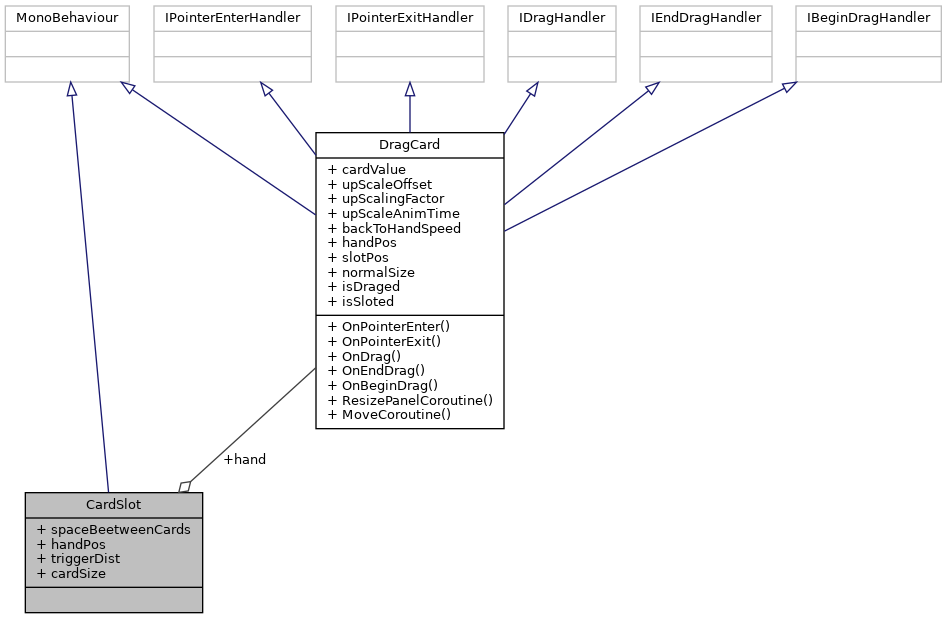
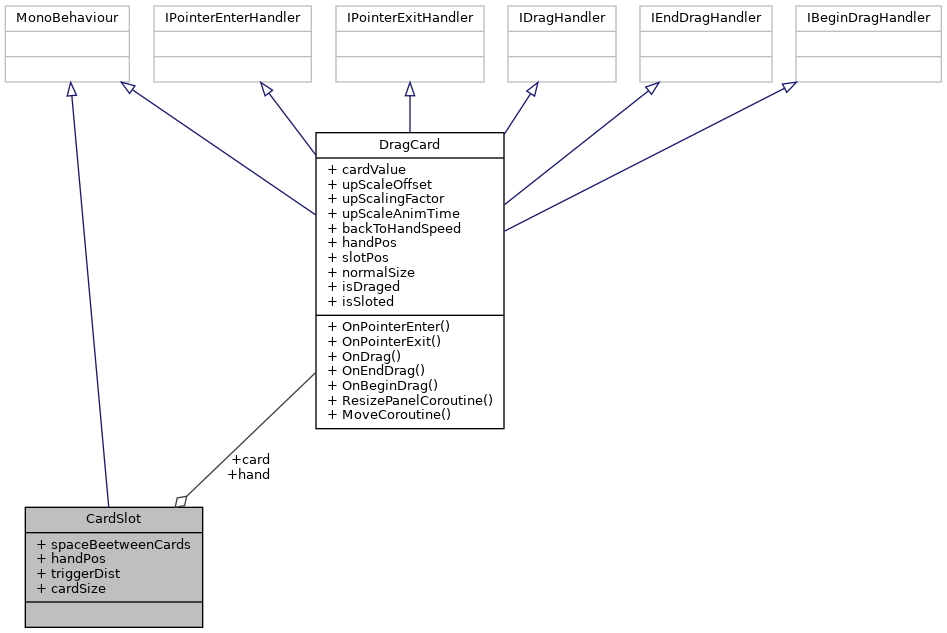
deploy: 629282280b667686e0bd03c245d22256bac1b76a

diff --git a/html/hierarchy.html b/html/hierarchy.html
@@ -79,15 +79,18 @@ This inheritance list is sorted roughly, but not completely, alphabetically:</di
 <tr id="row_4_0_" class="even"><td class="entry"><span style="width:32px;display:inline-block;">&#160;</span><span class="icona"><span class="icon">C</span></span><a class="el" href="classDragCard.html" target="_self">DragCard</a></td><td class="desc"></td></tr>
 <tr id="row_5_"><td class="entry"><span style="width:0px;display:inline-block;">&#160;</span><span id="arr_5_" class="arrow" onclick="toggleFolder('5_')">&#9660;</span><span class="icona"><span class="icon">C</span></span><b>IEndDragHandler</b></td><td class="desc"></td></tr>
 <tr id="row_5_0_" class="even"><td class="entry"><span style="width:32px;display:inline-block;">&#160;</span><span class="icona"><span class="icon">C</span></span><a class="el" href="classDragCard.html" target="_self">DragCard</a></td><td class="desc"></td></tr>
-<tr id="row_6_"><td class="entry"><span style="width:0px;display:inline-block;">&#160;</span><span id="arr_6_" class="arrow" onclick="toggleFolder('6_')">&#9660;</span><span class="icona"><span class="icon">C</span></span><b>IPointerEnterHandler</b></td><td class="desc"></td></tr>
-<tr id="row_6_0_" class="even"><td class="entry"><span style="width:32px;display:inline-block;">&#160;</span><span class="icona"><span class="icon">C</span></span><a class="el" href="classDragCard.html" target="_self">DragCard</a></td><td class="desc"></td></tr>
-<tr id="row_7_"><td class="entry"><span style="width:0px;display:inline-block;">&#160;</span><span id="arr_7_" class="arrow" onclick="toggleFolder('7_')">&#9660;</span><span class="icona"><span class="icon">C</span></span><b>IPointerExitHandler</b></td><td class="desc"></td></tr>
+<tr id="row_6_"><td class="entry"><span style="width:0px;display:inline-block;">&#160;</span><span id="arr_6_" class="arrow" onclick="toggleFolder('6_')">&#9660;</span><span class="icona"><span class="icon">C</span></span><b>IPointerDownHandler</b></td><td class="desc"></td></tr>
+<tr id="row_6_0_" class="even"><td class="entry"><span style="width:32px;display:inline-block;">&#160;</span><span class="icona"><span class="icon">C</span></span><a class="el" href="classCanvasSampleOpenFileJson.html" target="_self">CanvasSampleOpenFileJson</a></td><td class="desc"></td></tr>
+<tr id="row_7_"><td class="entry"><span style="width:0px;display:inline-block;">&#160;</span><span id="arr_7_" class="arrow" onclick="toggleFolder('7_')">&#9660;</span><span class="icona"><span class="icon">C</span></span><b>IPointerEnterHandler</b></td><td class="desc"></td></tr>
 <tr id="row_7_0_" class="even"><td class="entry"><span style="width:32px;display:inline-block;">&#160;</span><span class="icona"><span class="icon">C</span></span><a class="el" href="classDragCard.html" target="_self">DragCard</a></td><td class="desc"></td></tr>
-<tr id="row_8_"><td class="entry"><span style="width:0px;display:inline-block;">&#160;</span><span id="arr_8_" class="arrow" onclick="toggleFolder('8_')">&#9660;</span><span class="icona"><span class="icon">C</span></span><b>MonoBehaviour</b></td><td class="desc"></td></tr>
-<tr id="row_8_0_" class="even"><td class="entry"><span style="width:32px;display:inline-block;">&#160;</span><span class="icona"><span class="icon">C</span></span><a class="el" href="classCardSlot.html" target="_self">CardSlot</a></td><td class="desc"></td></tr>
-<tr id="row_8_1_"><td class="entry"><span style="width:32px;display:inline-block;">&#160;</span><span class="icona"><span class="icon">C</span></span><a class="el" href="classDragCard.html" target="_self">DragCard</a></td><td class="desc"></td></tr>
-<tr id="row_9_" class="even"><td class="entry"><span style="width:16px;display:inline-block;">&#160;</span><span class="icona"><span class="icon">C</span></span><a class="el" href="classtestScript.html" target="_self">testScript</a></td><td class="desc"></td></tr>
-<tr id="row_10_"><td class="entry"><span style="width:16px;display:inline-block;">&#160;</span><span class="icona"><span class="icon">C</span></span><a class="el" href="classValidator.html" target="_self">Validator</a></td><td class="desc">Equivalent aux modes de jeu </td></tr>
+<tr id="row_8_"><td class="entry"><span style="width:0px;display:inline-block;">&#160;</span><span id="arr_8_" class="arrow" onclick="toggleFolder('8_')">&#9660;</span><span class="icona"><span class="icon">C</span></span><b>IPointerExitHandler</b></td><td class="desc"></td></tr>
+<tr id="row_8_0_" class="even"><td class="entry"><span style="width:32px;display:inline-block;">&#160;</span><span class="icona"><span class="icon">C</span></span><a class="el" href="classDragCard.html" target="_self">DragCard</a></td><td class="desc"></td></tr>
+<tr id="row_9_"><td class="entry"><span style="width:0px;display:inline-block;">&#160;</span><span id="arr_9_" class="arrow" onclick="toggleFolder('9_')">&#9660;</span><span class="icona"><span class="icon">C</span></span><b>MonoBehaviour</b></td><td class="desc"></td></tr>
+<tr id="row_9_0_" class="even"><td class="entry"><span style="width:32px;display:inline-block;">&#160;</span><span class="icona"><span class="icon">C</span></span><a class="el" href="classCanvasSampleOpenFileJson.html" target="_self">CanvasSampleOpenFileJson</a></td><td class="desc"></td></tr>
+<tr id="row_9_1_"><td class="entry"><span style="width:32px;display:inline-block;">&#160;</span><span class="icona"><span class="icon">C</span></span><a class="el" href="classCardSlot.html" target="_self">CardSlot</a></td><td class="desc"></td></tr>
+<tr id="row_9_2_" class="even"><td class="entry"><span style="width:32px;display:inline-block;">&#160;</span><span class="icona"><span class="icon">C</span></span><a class="el" href="classDragCard.html" target="_self">DragCard</a></td><td class="desc"></td></tr>
+<tr id="row_10_"><td class="entry"><span style="width:16px;display:inline-block;">&#160;</span><span class="icona"><span class="icon">C</span></span><a class="el" href="classtestScript.html" target="_self">testScript</a></td><td class="desc"></td></tr>
+<tr id="row_11_" class="even"><td class="entry"><span style="width:16px;display:inline-block;">&#160;</span><span class="icona"><span class="icon">C</span></span><a class="el" href="classValidator.html" target="_self">Validator</a></td><td class="desc">Equivalent aux modes de jeu </td></tr>
 </table>
 </div><!-- directory -->
 </div><!-- contents -->

diff --git a/html/classCanvasSampleOpenFileJson.html b/html/classCanvasSampleOpenFileJson.html
@@ -5,7 +5,7 @@
 <meta http-equiv="X-UA-Compatible" content="IE=9"/>
 <meta name="generator" content="Doxygen 1.9.1"/>
 <meta name="viewport" content="width=device-width, initial-scale=1"/>
-<title>Planning Poker: Member List</title>
+<title>Planning Poker: CanvasSampleOpenFileJson Class Reference</title>
 <link href="tabs.css" rel="stylesheet" type="text/css"/>
 <script type="text/javascript" src="jquery.js"></script>
 <script type="text/javascript" src="dynsections.js"></script>
@@ -62,20 +62,51 @@ $(function() {
 
 </div><!-- top -->
 <div class="header">
+  <div class="summary">
+<a href="#pub-methods">Public Member Functions</a> &#124;
+<a href="#pub-attribs">Public Attributes</a> &#124;
+<a href="classCanvasSampleOpenFileJson-members.html">List of all members</a>  </div>
   <div class="headertitle">
-<div class="title">CardSlot Member List</div>  </div>
+<div class="title">CanvasSampleOpenFileJson Class Reference</div>  </div>
 </div><!--header-->
 <div class="contents">
-
-<p>This is the complete list of members for <a class="el" href="classCardSlot.html">CardSlot</a>, including all inherited members.</p>
-<table class="directory">
-  <tr bgcolor="#f0f0f0" class="even"><td class="entry"><b>card</b> (defined in <a class="el" href="classCardSlot.html">CardSlot</a>)</td><td class="entry"><a class="el" href="classCardSlot.html">CardSlot</a></td><td class="entry"></td></tr>
-  <tr bgcolor="#f0f0f0"><td class="entry"><b>cardSize</b> (defined in <a class="el" href="classCardSlot.html">CardSlot</a>)</td><td class="entry"><a class="el" href="classCardSlot.html">CardSlot</a></td><td class="entry"></td></tr>
-  <tr bgcolor="#f0f0f0" class="even"><td class="entry"><b>hand</b> (defined in <a class="el" href="classCardSlot.html">CardSlot</a>)</td><td class="entry"><a class="el" href="classCardSlot.html">CardSlot</a></td><td class="entry"></td></tr>
-  <tr bgcolor="#f0f0f0"><td class="entry"><b>handPos</b> (defined in <a class="el" href="classCardSlot.html">CardSlot</a>)</td><td class="entry"><a class="el" href="classCardSlot.html">CardSlot</a></td><td class="entry"></td></tr>
-  <tr bgcolor="#f0f0f0" class="even"><td class="entry"><b>spaceBeetweenCards</b> (defined in <a class="el" href="classCardSlot.html">CardSlot</a>)</td><td class="entry"><a class="el" href="classCardSlot.html">CardSlot</a></td><td class="entry"></td></tr>
-  <tr bgcolor="#f0f0f0"><td class="entry"><b>triggerDist</b> (defined in <a class="el" href="classCardSlot.html">CardSlot</a>)</td><td class="entry"><a class="el" href="classCardSlot.html">CardSlot</a></td><td class="entry"></td></tr>
-</table></div><!-- contents -->
+<div class="dynheader">
+Inheritance diagram for CanvasSampleOpenFileJson:</div>
+<div class="dyncontent">
+<div class="center"><img src="classCanvasSampleOpenFileJson__inherit__graph.png" border="0" usemap="#aCanvasSampleOpenFileJson_inherit__map" alt="Inheritance graph"/></div>
+<map name="aCanvasSampleOpenFileJson_inherit__map" id="aCanvasSampleOpenFileJson_inherit__map">
+<area shape="rect" title=" " alt="" coords="49,131,251,208"/>
+<area shape="rect" title=" " alt="" coords="5,5,129,83"/>
+<area shape="rect" title=" " alt="" coords="154,5,314,83"/>
+</map>
+</div>
+<div class="dynheader">
+Collaboration diagram for CanvasSampleOpenFileJson:</div>
+<div class="dyncontent">
+<div class="center"><img src="classCanvasSampleOpenFileJson__coll__graph.png" border="0" usemap="#aCanvasSampleOpenFileJson_coll__map" alt="Collaboration graph"/></div>
+<map name="aCanvasSampleOpenFileJson_coll__map" id="aCanvasSampleOpenFileJson_coll__map">
+<area shape="rect" title=" " alt="" coords="49,131,251,208"/>
+<area shape="rect" title=" " alt="" coords="5,5,129,83"/>
+<area shape="rect" title=" " alt="" coords="154,5,314,83"/>
+</map>
+</div>
+<table class="memberdecls">
+<tr class="heading"><td colspan="2"><h2 class="groupheader"><a name="pub-methods"></a>
+Public Member Functions</h2></td></tr>
+<tr class="memitem:a1fda3e31e9f03bfb12b79ccdfd26ca4f"><td class="memItemLeft" align="right" valign="top"><a id="a1fda3e31e9f03bfb12b79ccdfd26ca4f"></a>
+void&#160;</td><td class="memItemRight" valign="bottom"><b>OnPointerDown</b> (PointerEventData eventData)</td></tr>
+<tr class="separator:a1fda3e31e9f03bfb12b79ccdfd26ca4f"><td class="memSeparator" colspan="2">&#160;</td></tr>
+</table><table class="memberdecls">
+<tr class="heading"><td colspan="2"><h2 class="groupheader"><a name="pub-attribs"></a>
+Public Attributes</h2></td></tr>
+<tr class="memitem:ab4917150f793199df47ce8d3d237f96e"><td class="memItemLeft" align="right" valign="top"><a id="ab4917150f793199df47ce8d3d237f96e"></a>
+String&#160;</td><td class="memItemRight" valign="bottom"><b>file</b></td></tr>
+<tr class="separator:ab4917150f793199df47ce8d3d237f96e"><td class="memSeparator" colspan="2">&#160;</td></tr>
+</table>
+<hr/>The documentation for this class was generated from the following file:<ul>
+<li>Assets/Scripts/UI/OpenJSONFile.cs</li>
+</ul>
+</div><!-- contents -->
 <!-- start footer part -->
 <hr class="footer"/><address class="footer"><small>
 Generated by&#160;<a href="https://www.doxygen.org/index.html"><img class="footer" src="doxygen.svg" width="104" height="31" alt="doxygen"/></a> 1.9.1

diff --git a/html/annotated.html b/html/annotated.html
@@ -69,12 +69,13 @@ $(function() {
 <div class="textblock">Here are the classes, structs, unions and interfaces with brief descriptions:</div><div class="directory">
 <table class="directory">
 <tr id="row_0_" class="even"><td class="entry"><span style="width:16px;display:inline-block;">&#160;</span><span class="icona"><span class="icon">C</span></span><a class="el" href="classAppManager.html" target="_self">AppManager</a></td><td class="desc">Contient les méthodes nécessaires à la logique du jeu </td></tr>
-<tr id="row_1_"><td class="entry"><span style="width:16px;display:inline-block;">&#160;</span><span class="icona"><span class="icon">C</span></span><a class="el" href="classCard.html" target="_self">Card</a></td><td class="desc">Représente les cartes du jeu </td></tr>
-<tr id="row_2_" class="even"><td class="entry"><span style="width:16px;display:inline-block;">&#160;</span><span class="icona"><span class="icon">C</span></span><a class="el" href="classCardSlot.html" target="_self">CardSlot</a></td><td class="desc"></td></tr>
-<tr id="row_3_"><td class="entry"><span style="width:16px;display:inline-block;">&#160;</span><span class="icona"><span class="icon">C</span></span><a class="el" href="classDragCard.html" target="_self">DragCard</a></td><td class="desc"></td></tr>
-<tr id="row_4_" class="even"><td class="entry"><span style="width:16px;display:inline-block;">&#160;</span><span class="icona"><span class="icon">C</span></span><a class="el" href="classFonctionnalite.html" target="_self">Fonctionnalite</a></td><td class="desc">Représente une fonctionnalité à estimer </td></tr>
-<tr id="row_5_"><td class="entry"><span style="width:16px;display:inline-block;">&#160;</span><span class="icona"><span class="icon">C</span></span><a class="el" href="classtestScript.html" target="_self">testScript</a></td><td class="desc"></td></tr>
-<tr id="row_6_" class="even"><td class="entry"><span style="width:16px;display:inline-block;">&#160;</span><span class="icona"><span class="icon">C</span></span><a class="el" href="classValidator.html" target="_self">Validator</a></td><td class="desc">Equivalent aux modes de jeu </td></tr>
+<tr id="row_1_"><td class="entry"><span style="width:16px;display:inline-block;">&#160;</span><span class="icona"><span class="icon">C</span></span><a class="el" href="classCanvasSampleOpenFileJson.html" target="_self">CanvasSampleOpenFileJson</a></td><td class="desc"></td></tr>
+<tr id="row_2_" class="even"><td class="entry"><span style="width:16px;display:inline-block;">&#160;</span><span class="icona"><span class="icon">C</span></span><a class="el" href="classCard.html" target="_self">Card</a></td><td class="desc">Représente les cartes du jeu </td></tr>
+<tr id="row_3_"><td class="entry"><span style="width:16px;display:inline-block;">&#160;</span><span class="icona"><span class="icon">C</span></span><a class="el" href="classCardSlot.html" target="_self">CardSlot</a></td><td class="desc"></td></tr>
+<tr id="row_4_" class="even"><td class="entry"><span style="width:16px;display:inline-block;">&#160;</span><span class="icona"><span class="icon">C</span></span><a class="el" href="classDragCard.html" target="_self">DragCard</a></td><td class="desc"></td></tr>
+<tr id="row_5_"><td class="entry"><span style="width:16px;display:inline-block;">&#160;</span><span class="icona"><span class="icon">C</span></span><a class="el" href="classFonctionnalite.html" target="_self">Fonctionnalite</a></td><td class="desc">Représente une fonctionnalité à estimer </td></tr>
+<tr id="row_6_" class="even"><td class="entry"><span style="width:16px;display:inline-block;">&#160;</span><span class="icona"><span class="icon">C</span></span><a class="el" href="classtestScript.html" target="_self">testScript</a></td><td class="desc"></td></tr>
+<tr id="row_7_"><td class="entry"><span style="width:16px;display:inline-block;">&#160;</span><span class="icona"><span class="icon">C</span></span><a class="el" href="classValidator.html" target="_self">Validator</a></td><td class="desc">Equivalent aux modes de jeu </td></tr>
 </table>
 </div><!-- directory -->
 </div><!-- contents -->

diff --git a/html/classCanvasSampleOpenFileJson-members.html b/html/classCanvasSampleOpenFileJson-members.html
@@ -63,18 +63,14 @@ $(function() {
 </div><!-- top -->
 <div class="header">
   <div class="headertitle">
-<div class="title">CardSlot Member List</div>  </div>
+<div class="title">CanvasSampleOpenFileJson Member List</div>  </div>
 </div><!--header-->
 <div class="contents">
 
-<p>This is the complete list of members for <a class="el" href="classCardSlot.html">CardSlot</a>, including all inherited members.</p>
+<p>This is the complete list of members for <a class="el" href="classCanvasSampleOpenFileJson.html">CanvasSampleOpenFileJson</a>, including all inherited members.</p>
 <table class="directory">
-  <tr bgcolor="#f0f0f0" class="even"><td class="entry"><b>card</b> (defined in <a class="el" href="classCardSlot.html">CardSlot</a>)</td><td class="entry"><a class="el" href="classCardSlot.html">CardSlot</a></td><td class="entry"></td></tr>
-  <tr bgcolor="#f0f0f0"><td class="entry"><b>cardSize</b> (defined in <a class="el" href="classCardSlot.html">CardSlot</a>)</td><td class="entry"><a class="el" href="classCardSlot.html">CardSlot</a></td><td class="entry"></td></tr>
-  <tr bgcolor="#f0f0f0" class="even"><td class="entry"><b>hand</b> (defined in <a class="el" href="classCardSlot.html">CardSlot</a>)</td><td class="entry"><a class="el" href="classCardSlot.html">CardSlot</a></td><td class="entry"></td></tr>
-  <tr bgcolor="#f0f0f0"><td class="entry"><b>handPos</b> (defined in <a class="el" href="classCardSlot.html">CardSlot</a>)</td><td class="entry"><a class="el" href="classCardSlot.html">CardSlot</a></td><td class="entry"></td></tr>
-  <tr bgcolor="#f0f0f0" class="even"><td class="entry"><b>spaceBeetweenCards</b> (defined in <a class="el" href="classCardSlot.html">CardSlot</a>)</td><td class="entry"><a class="el" href="classCardSlot.html">CardSlot</a></td><td class="entry"></td></tr>
-  <tr bgcolor="#f0f0f0"><td class="entry"><b>triggerDist</b> (defined in <a class="el" href="classCardSlot.html">CardSlot</a>)</td><td class="entry"><a class="el" href="classCardSlot.html">CardSlot</a></td><td class="entry"></td></tr>
+  <tr bgcolor="#f0f0f0" class="even"><td class="entry"><b>file</b> (defined in <a class="el" href="classCanvasSampleOpenFileJson.html">CanvasSampleOpenFileJson</a>)</td><td class="entry"><a class="el" href="classCanvasSampleOpenFileJson.html">CanvasSampleOpenFileJson</a></td><td class="entry"></td></tr>
+  <tr bgcolor="#f0f0f0"><td class="entry"><b>OnPointerDown</b>(PointerEventData eventData) (defined in <a class="el" href="classCanvasSampleOpenFileJson.html">CanvasSampleOpenFileJson</a>)</td><td class="entry"><a class="el" href="classCanvasSampleOpenFileJson.html">CanvasSampleOpenFileJson</a></td><td class="entry"><span class="mlabel">inline</span></td></tr>
 </table></div><!-- contents -->
 <!-- start footer part -->
 <hr class="footer"/><address class="footer"><small>

diff --git a/html/classCardSlot.html b/html/classCardSlot.html
@@ -74,7 +74,7 @@ Inheritance diagram for CardSlot:</div>
 <div class="dyncontent">
 <div class="center"><img src="classCardSlot__inherit__graph.png" border="0" usemap="#aCardSlot_inherit__map" alt="Inheritance graph"/></div>
 <map name="aCardSlot_inherit__map" id="aCardSlot_inherit__map">
-<area shape="rect" title=" " alt="" coords="5,131,183,267"/>
+<area shape="rect" title=" " alt="" coords="5,131,183,281"/>
 <area shape="rect" title=" " alt="" coords="32,5,156,83"/>
 </map>
 </div>
@@ -83,7 +83,7 @@ Collaboration diagram for CardSlot:</div>
 <div class="dyncontent">
 <div class="center"><img src="classCardSlot__coll__graph.png" border="0" usemap="#aCardSlot_coll__map" alt="Collaboration graph"/></div>
 <map name="aCardSlot_coll__map" id="aCardSlot_coll__map">
-<area shape="rect" title=" " alt="" coords="25,492,203,613"/>
+<area shape="rect" title=" " alt="" coords="25,507,203,628"/>
 <area shape="rect" title=" " alt="" coords="5,5,129,83"/>
 <area shape="rect" href="classDragCard.html" title=" " alt="" coords="316,132,504,429"/>
 <area shape="rect" title=" " alt="" coords="154,5,311,83"/>
@@ -111,6 +111,9 @@ float&#160;</td><td class="memItemRight" valign="bottom"><b>triggerDist</b></td>
 <tr class="memitem:a9941e4748e4b48a14fce74740a809574"><td class="memItemLeft" align="right" valign="top"><a id="a9941e4748e4b48a14fce74740a809574"></a>
 Vector2&#160;</td><td class="memItemRight" valign="bottom"><b>cardSize</b></td></tr>
 <tr class="separator:a9941e4748e4b48a14fce74740a809574"><td class="memSeparator" colspan="2">&#160;</td></tr>
+<tr class="memitem:a1d7c85a7ef9ce287f678730138a27f75"><td class="memItemLeft" align="right" valign="top"><a id="a1d7c85a7ef9ce287f678730138a27f75"></a>
+<a class="el" href="classDragCard.html">DragCard</a>&#160;</td><td class="memItemRight" valign="bottom"><b>card</b></td></tr>
+<tr class="separator:a1d7c85a7ef9ce287f678730138a27f75"><td class="memSeparator" colspan="2">&#160;</td></tr>
 </table>
 <hr/>The documentation for this class was generated from the following file:<ul>
 <li>Assets/Scripts/UI/CardSlot.cs</li>

diff --git a/html/inherits.html b/html/inherits.html
@@ -81,14 +81,16 @@ $(function() {
 </td></tr>
 <tr><td><img src="inherit_graph_2.png" border="0" usemap="#aDragCard" alt=""/>
 <map name="aDragCard" id="aDragCard">
-<area shape="rect" title=" " alt="" coords="11,5,157,32"/>
-<area shape="rect" href="classDragCard.html" title=" " alt="" coords="211,132,293,159"/>
-<area shape="rect" title=" " alt="" coords="30,56,138,83"/>
-<area shape="rect" title=" " alt="" coords="18,107,150,133"/>
-<area shape="rect" title=" " alt="" coords="5,157,163,184"/>
-<area shape="rect" title=" " alt="" coords="10,208,158,235"/>
-<area shape="rect" title=" " alt="" coords="22,259,146,285"/>
-<area shape="rect" href="classCardSlot.html" title=" " alt="" coords="213,259,291,285"/>
+<area shape="rect" title=" " alt="" coords="13,5,158,32"/>
+<area shape="rect" href="classDragCard.html" title=" " alt="" coords="273,132,356,159"/>
+<area shape="rect" title=" " alt="" coords="31,56,139,83"/>
+<area shape="rect" title=" " alt="" coords="19,107,151,133"/>
+<area shape="rect" title=" " alt="" coords="5,309,165,336"/>
+<area shape="rect" href="classCanvasSampleOpenFileJson.html" title=" " alt="" coords="213,309,416,336"/>
+<area shape="rect" title=" " alt="" coords="7,157,164,184"/>
+<area shape="rect" title=" " alt="" coords="11,208,159,235"/>
+<area shape="rect" title=" " alt="" coords="23,259,147,285"/>
+<area shape="rect" href="classCardSlot.html" title=" " alt="" coords="276,259,353,285"/>
 </map>
 </td></tr>
 <tr><td><img src="inherit_graph_3.png" border="0" usemap="#aFonctionnalite" alt=""/>

diff --git a/html/search/all_a.js b/html/search/all_a.js
@@ -1,8 +1,8 @@
 var searchData=
 [
-  ['save_22',['save',['../classAppManager.html#a62c8bda3d150f7f62a979ee554fa7206',1,'AppManager']]],
-  ['setdescription_23',['setDescription',['../classFonctionnalite.html#a7976000cc4fa66ce33016c99964d7dcf',1,'Fonctionnalite']]],
-  ['setnom_24',['setNom',['../classFonctionnalite.html#a8acaa1d29605e9920405f4cd27f71f22',1,'Fonctionnalite']]],
-  ['setnote_25',['setNote',['../classFonctionnalite.html#a766bfee66fcd70eec976bf7b520b243a',1,'Fonctionnalite']]],
-  ['strict_26',['strict',['../classValidator.html#afc81149d12f8b634b5f9a1748454c98f',1,'Validator']]]
+  ['save_23',['save',['../classAppManager.html#a62c8bda3d150f7f62a979ee554fa7206',1,'AppManager']]],
+  ['setdescription_24',['setDescription',['../classFonctionnalite.html#a7976000cc4fa66ce33016c99964d7dcf',1,'Fonctionnalite']]],
+  ['setnom_25',['setNom',['../classFonctionnalite.html#a8acaa1d29605e9920405f4cd27f71f22',1,'Fonctionnalite']]],
+  ['setnote_26',['setNote',['../classFonctionnalite.html#a766bfee66fcd70eec976bf7b520b243a',1,'Fonctionnalite']]],
+  ['strict_27',['strict',['../classValidator.html#afc81149d12f8b634b5f9a1748454c98f',1,'Validator']]]
 ];

diff --git a/html/search/functions_1.js b/html/search/functions_1.js
@@ -1,7 +1,7 @@
 var searchData=
 [
-  ['getcurrent_45',['getCurrent',['../classAppManager.html#a571fe30eff0d41e7c9aedfd17c69cd6e',1,'AppManager']]],
-  ['getdescription_46',['getDescription',['../classFonctionnalite.html#ae0de88b80675a4af073ae6a9ff221ff1',1,'Fonctionnalite']]],
-  ['getnom_47',['getNom',['../classFonctionnalite.html#a5cd45852f1639e2b07106be4de1530ac',1,'Fonctionnalite']]],
-  ['getnote_48',['getNote',['../classFonctionnalite.html#a43ab8e680e83d76a5d0a9cb2f0913f45',1,'Fonctionnalite']]]
+  ['getcurrent_47',['getCurrent',['../classAppManager.html#a571fe30eff0d41e7c9aedfd17c69cd6e',1,'AppManager']]],
+  ['getdescription_48',['getDescription',['../classFonctionnalite.html#ae0de88b80675a4af073ae6a9ff221ff1',1,'Fonctionnalite']]],
+  ['getnom_49',['getNom',['../classFonctionnalite.html#a5cd45852f1639e2b07106be4de1530ac',1,'Fonctionnalite']]],
+  ['getnote_50',['getNote',['../classFonctionnalite.html#a43ab8e680e83d76a5d0a9cb2f0913f45',1,'Fonctionnalite']]]
 ];

diff --git a/html/search/all_4.js b/html/search/all_4.js
@@ -1,7 +1,7 @@
 var searchData=
 [
-  ['getcurrent_9',['getCurrent',['../classAppManager.html#a571fe30eff0d41e7c9aedfd17c69cd6e',1,'AppManager']]],
-  ['getdescription_10',['getDescription',['../classFonctionnalite.html#ae0de88b80675a4af073ae6a9ff221ff1',1,'Fonctionnalite']]],
-  ['getnom_11',['getNom',['../classFonctionnalite.html#a5cd45852f1639e2b07106be4de1530ac',1,'Fonctionnalite']]],
-  ['getnote_12',['getNote',['../classFonctionnalite.html#a43ab8e680e83d76a5d0a9cb2f0913f45',1,'Fonctionnalite']]]
+  ['getcurrent_10',['getCurrent',['../classAppManager.html#a571fe30eff0d41e7c9aedfd17c69cd6e',1,'AppManager']]],
+  ['getdescription_11',['getDescription',['../classFonctionnalite.html#ae0de88b80675a4af073ae6a9ff221ff1',1,'Fonctionnalite']]],
+  ['getnom_12',['getNom',['../classFonctionnalite.html#a5cd45852f1639e2b07106be4de1530ac',1,'Fonctionnalite']]],
+  ['getnote_13',['getNote',['../classFonctionnalite.html#a43ab8e680e83d76a5d0a9cb2f0913f45',1,'Fonctionnalite']]]
 ];

diff --git a/html/search/all_7.js b/html/search/all_7.js
@@ -1,7 +1,7 @@
 var searchData=
 [
-  ['majorite_5fabsolue_16',['majorite_absolue',['../classValidator.html#a81e0832c7914813494c82a715b12984c',1,'Validator']]],
-  ['majorite_5frelative_17',['majorite_relative',['../classValidator.html#a4312bed7a18d192ef371fb17a6841d2c',1,'Validator']]],
-  ['mediane_18',['mediane',['../classValidator.html#aa1da5c84e35572cee1a805e21f1cd08f',1,'Validator']]],
-  ['moyenne_19',['moyenne',['../classValidator.html#a20b84f65a06dd410047123eddb15201b',1,'Validator']]]
+  ['majorite_5fabsolue_17',['majorite_absolue',['../classValidator.html#a81e0832c7914813494c82a715b12984c',1,'Validator']]],
+  ['majorite_5frelative_18',['majorite_relative',['../classValidator.html#a4312bed7a18d192ef371fb17a6841d2c',1,'Validator']]],
+  ['mediane_19',['mediane',['../classValidator.html#aa1da5c84e35572cee1a805e21f1cd08f',1,'Validator']]],
+  ['moyenne_20',['moyenne',['../classValidator.html#a20b84f65a06dd410047123eddb15201b',1,'Validator']]]
 ];

diff --git a/html/search/variables_4.js b/html/search/variables_4.js
@@ -1,7 +1,7 @@
 var searchData=
 [
-  ['majorite_5fabsolue_64',['majorite_absolue',['../classValidator.html#a81e0832c7914813494c82a715b12984c',1,'Validator']]],
-  ['majorite_5frelative_65',['majorite_relative',['../classValidator.html#a4312bed7a18d192ef371fb17a6841d2c',1,'Validator']]],
-  ['mediane_66',['mediane',['../classValidator.html#aa1da5c84e35572cee1a805e21f1cd08f',1,'Validator']]],
-  ['moyenne_67',['moyenne',['../classValidator.html#a20b84f65a06dd410047123eddb15201b',1,'Validator']]]
+  ['majorite_5fabsolue_66',['majorite_absolue',['../classValidator.html#a81e0832c7914813494c82a715b12984c',1,'Validator']]],
+  ['majorite_5frelative_67',['majorite_relative',['../classValidator.html#a4312bed7a18d192ef371fb17a6841d2c',1,'Validator']]],
+  ['mediane_68',['mediane',['../classValidator.html#aa1da5c84e35572cee1a805e21f1cd08f',1,'Validator']]],
+  ['moyenne_69',['moyenne',['../classValidator.html#a20b84f65a06dd410047123eddb15201b',1,'Validator']]]
 ];

diff --git a/html/search/functions_4.js b/html/search/functions_4.js
@@ -1,7 +1,7 @@
 var searchData=
 [
-  ['save_51',['save',['../classAppManager.html#a62c8bda3d150f7f62a979ee554fa7206',1,'AppManager']]],
-  ['setdescription_52',['setDescription',['../classFonctionnalite.html#a7976000cc4fa66ce33016c99964d7dcf',1,'Fonctionnalite']]],
-  ['setnom_53',['setNom',['../classFonctionnalite.html#a8acaa1d29605e9920405f4cd27f71f22',1,'Fonctionnalite']]],
-  ['setnote_54',['setNote',['../classFonctionnalite.html#a766bfee66fcd70eec976bf7b520b243a',1,'Fonctionnalite']]]
+  ['save_53',['save',['../classAppManager.html#a62c8bda3d150f7f62a979ee554fa7206',1,'AppManager']]],
+  ['setdescription_54',['setDescription',['../classFonctionnalite.html#a7976000cc4fa66ce33016c99964d7dcf',1,'Fonctionnalite']]],
+  ['setnom_55',['setNom',['../classFonctionnalite.html#a8acaa1d29605e9920405f4cd27f71f22',1,'Fonctionnalite']]],
+  ['setnote_56',['setNote',['../classFonctionnalite.html#a766bfee66fcd70eec976bf7b520b243a',1,'Fonctionnalite']]]
 ];
